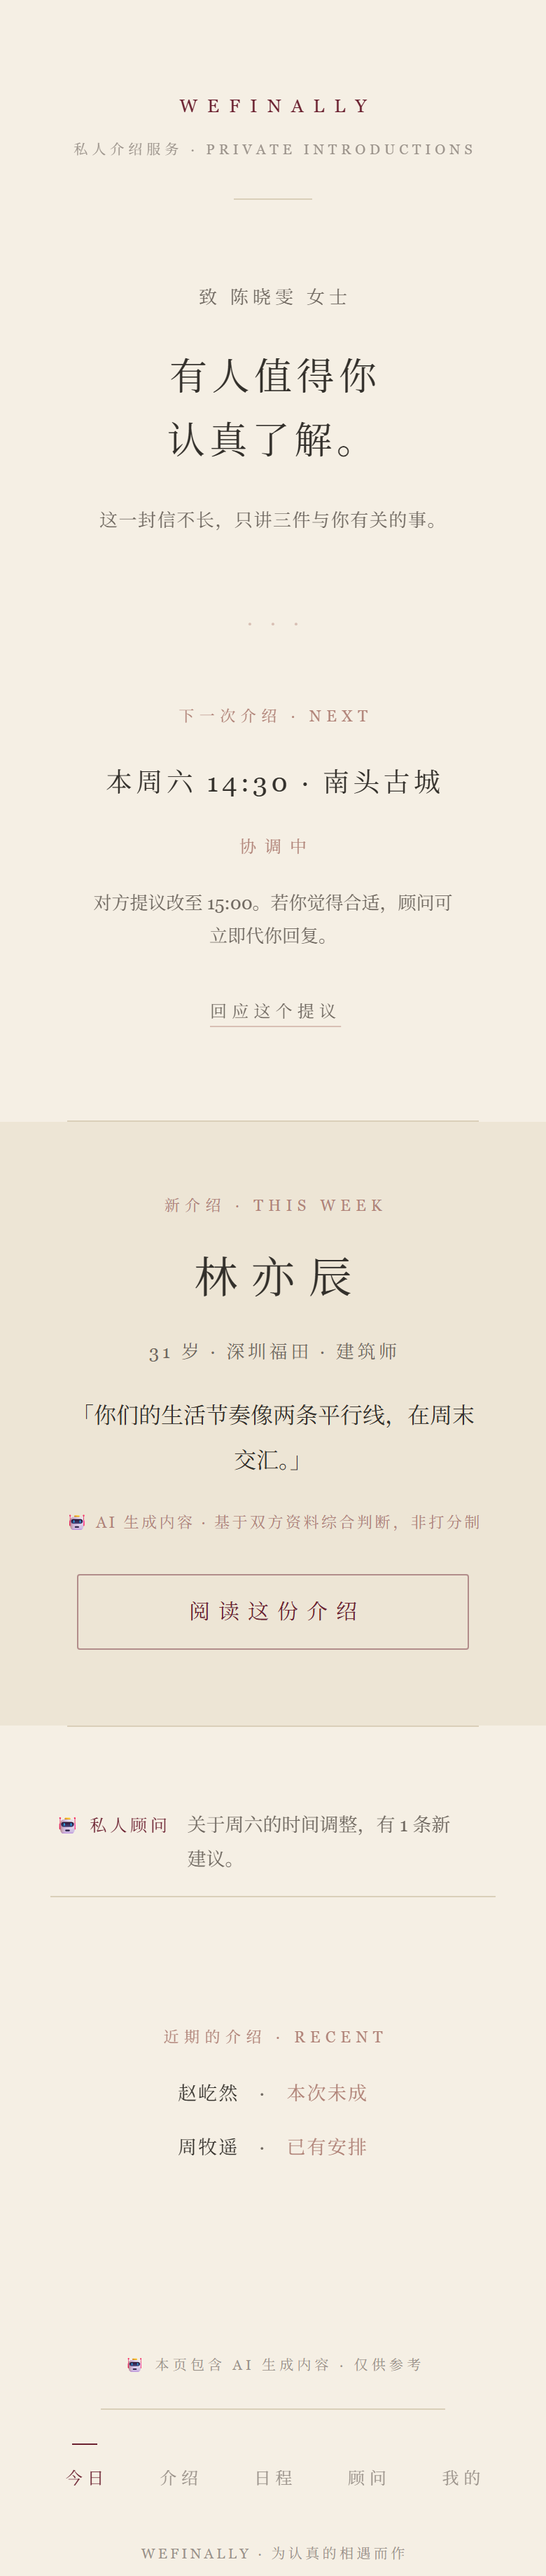
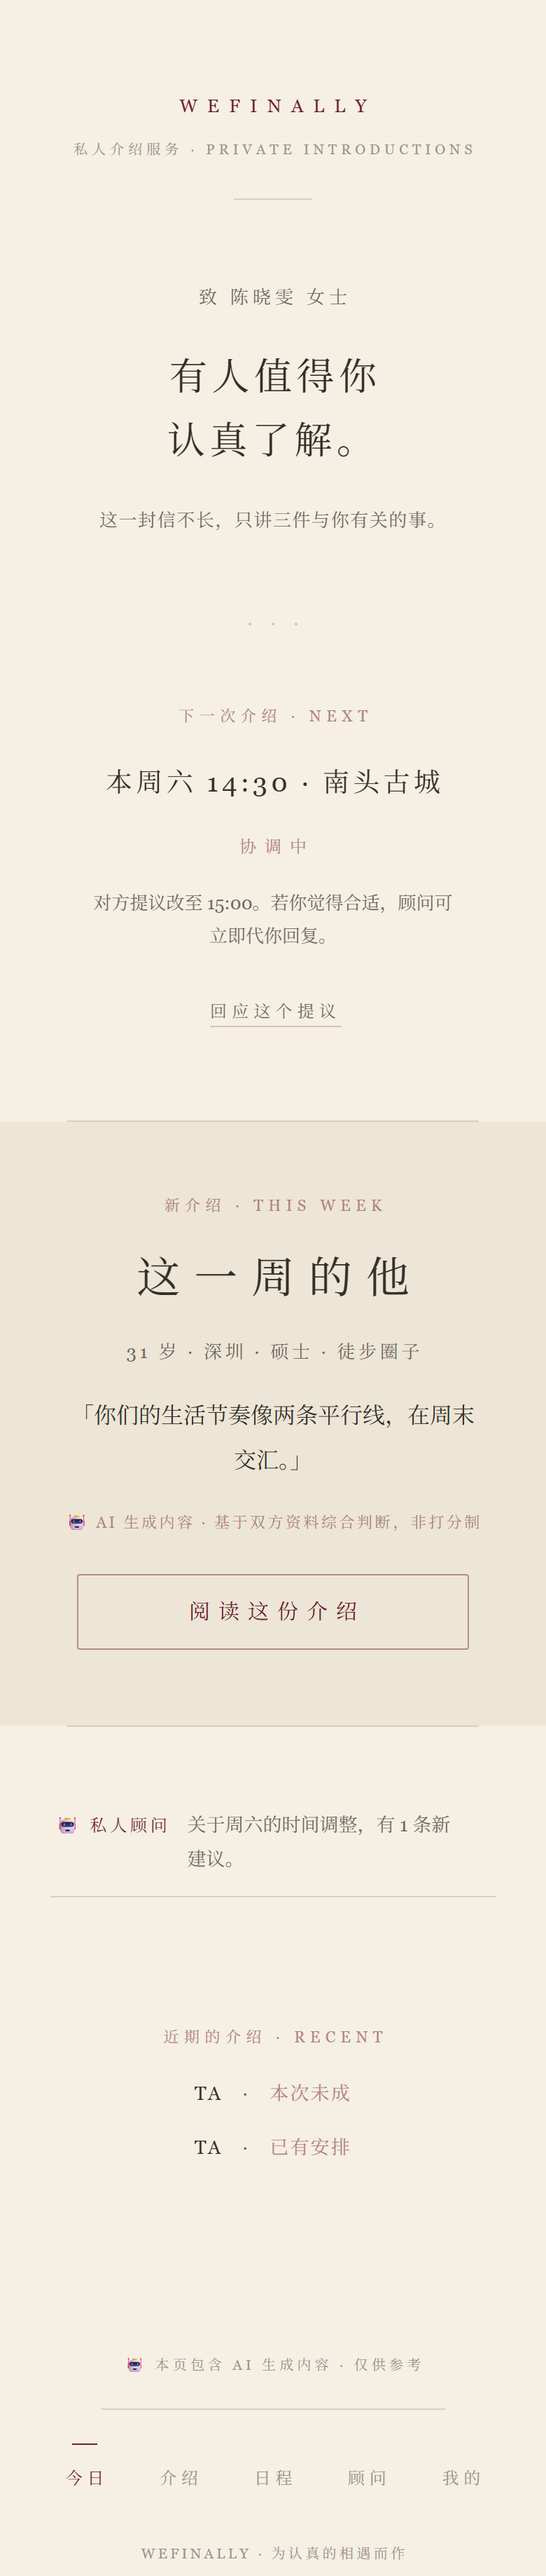
fix(ui-research): anonymize all 27 prototypes per product privacy rule (no partner names/photos/jobs shown)

diff --git a/designs/ui-research-2026/home-e-soft-brutalism.html b/designs/ui-research-2026/home-e-soft-brutalism.html
@@ -110,7 +110,7 @@ a{color:inherit}
 .mono-lg{width:78px;height:78px;font-size:38px}
 .nm{font-size:33px;font-weight:900;line-height:1.1;letter-spacing:.02em}
 .nm-en{font-size:10.5px;letter-spacing:.3em;font-weight:800;margin-top:3px}
-.meta{font-size:13px;font-weight:700;margin-top:7px;display:flex;align-items:center;gap:7px}
+.meta{font-size:13px;font-weight:700;margin-top:7px;display:flex;align-items:center;gap:7px;row-gap:4px;flex-wrap:wrap}
 .meta .sq{width:6px;height:6px;background:var(--ink)}
 .tags{display:flex;align-items:center;gap:6px;flex-wrap:wrap;font-size:11.5px;font-weight:800}
 .tags .t{border:1.5px solid var(--ink);padding:2px 8px;letter-spacing:.06em}
@@ -227,11 +227,11 @@ a{color:inherit}
       <span class="new-arrows" aria-hidden="true">▸▸</span>
     </div>
     <div class="idrow">
-      <div class="mono mono-lg" aria-hidden="true">林</div>
+      <div class="mono mono-lg" aria-hidden="true">TA</div>
       <div>
-        <div class="nm">林亦辰</div>
-        <div class="nm-en en">LIN YICHEN</div>
-        <div class="meta">31 岁 <i class="sq" aria-hidden="true"></i> 建筑师 <i class="sq" aria-hidden="true"></i> 深圳 · 福田</div>
+        <div class="nm">TA · NO.08</div>
+        <div class="nm-en en">NEW MATCH · TA</div>
+        <div class="meta">31 岁 <i class="sq" aria-hidden="true"></i> 深圳 <i class="sq" aria-hidden="true"></i> 175–180cm <i class="sq" aria-hidden="true"></i> 硕士 <i class="sq" aria-hidden="true"></i> 徒步圈子</div>
       </div>
     </div>
     <div class="tags">共同点 →<span class="t">徒步 · EBC</span><span class="t">胶片相机</span><span class="t">周末日料</span></div>
@@ -279,23 +279,23 @@ a{color:inherit}
   <section class="recent">
     <article class="rb">
       <div class="r-top">
-        <span class="mono mono-sm" aria-hidden="true">赵</span>
+        <span class="mono mono-sm" aria-hidden="true">46</span>
         <span class="stag stag-sm st-done">本次未成</span>
       </div>
       <div>
-        <div class="r-nm">赵屹然</div>
-        <div class="r-en en">ZHAO YIRAN</div>
+        <div class="r-nm">TA · 第 046 期</div>
+        <div class="r-en en">PAST · NO.046</div>
       </div>
       <div class="r-sub">此前介绍 · 已结束，不再占用你的列表</div>
     </article>
     <article class="rb ok">
       <div class="r-top">
-        <span class="mono mono-sm" aria-hidden="true">周</span>
+        <span class="mono mono-sm" aria-hidden="true">44</span>
         <span class="stag stag-sm st-ok">已有安排</span>
       </div>
       <div>
-        <div class="r-nm">周牧遥</div>
-        <div class="r-en en">ZHOU MUYAO</div>
+        <div class="r-nm">TA · 第 044 期</div>
+        <div class="r-en en">PAST · NO.044</div>
       </div>
       <div class="r-sub">此前介绍 · 见面安排推进中</div>
     </article>

diff --git a/designs/ui-research-2026/home-c-date-pass.html b/designs/ui-research-2026/home-c-date-pass.html
@@ -326,10 +326,10 @@ a:focus-visible{outline:2px solid var(--red);outline-offset:2px;}
             </figure>
             <span class="xmark">◆</span>
             <figure class="fig">
-              <span class="win guest"><i class="c1"></i><i class="c2"></i>周</span>
+              <span class="win guest"><i class="c1"></i><i class="c2"></i>TA</span>
               <figcaption>GUEST 受邀人</figcaption>
             </figure>
-            <span class="whonote">陈晓雯 × 周牧遥<br>双方均已同意介绍</span>
+            <span class="whonote">陈晓雯 × TA<br>双方均已同意介绍</span>
           </div>
 
           <div class="times">
@@ -393,10 +393,10 @@ a:focus-visible{outline:2px solid var(--red);outline-offset:2px;}
     <section class="claim" aria-label="新 Date Pass 待领取">
       <span class="claim-flag">NEW PASS</span>
       <div class="claim-row">
-        <span class="win mini"><i class="c1"></i><i class="c2"></i>林</span>
+        <span class="win mini"><i class="c1"></i><i class="c2"></i>TA</span>
         <div>
-          <div class="cname">林亦辰<span class="tag">新匹配</span></div>
-          <div class="cmeta">31 · 建筑师 · 深圳福田</div>
+          <div class="cname">TA · PASS WF-C08<span class="tag">新匹配</span></div>
+          <div class="cmeta">31 岁 · 深圳 · 175–180cm<br>硕士 · 徒步圈子</div>
         </div>
         <span class="cteaser">IN COMMON ×3<br>领取后查看</span>
       </div>
@@ -423,7 +423,7 @@ a:focus-visible{outline:2px solid var(--red);outline-offset:2px;}
       <div class="stub">
         <span class="s-no">NO.<br>WF-A11</span>
         <div>
-          <div class="s-name">赵屹然</div>
+          <div class="s-name">TA</div>
           <span class="s-sub">上次介绍未达成 · 已由协调员归档</span>
         </div>
         <span class="stamp sm grey">本次未成</span>
@@ -431,7 +431,7 @@ a:focus-visible{outline:2px solid var(--red);outline-offset:2px;}
       <div class="stub">
         <span class="s-no">NO.<br>WF-B04</span>
         <div>
-          <div class="s-name">周牧遥</div>
+          <div class="s-name">TA</div>
           <span class="s-sub">即上方票面之安排 · 进行中</span>
         </div>
         <span class="stamp sm green">已有安排</span>

diff --git a/designs/ui-research-2026/coord-e-soft-brutalism.html b/designs/ui-research-2026/coord-e-soft-brutalism.html
@@ -196,7 +196,7 @@ a{color:inherit}
       <div class="f-kick"><i class="f-lamp" aria-hidden="true"></i><span class="en">SYSTEM STATUS — 本周六介绍 · 时间敲定中</span></div>
       <h1 class="f-h en">COORD-<br>INATING<span class="rd">.</span><span class="cursor" aria-hidden="true"></span></h1>
       <div class="f-cn">协调中</div>
-      <p class="f-sub">林亦辰提议把周六介绍从 14:30 改到 15:00。你的空闲到 17:00，改后仍在范围内 —— 确认或另提时间都行，定了就由霞姐团队去敲定。</p>
+      <p class="f-sub">对方提议把周六介绍从 14:30 改到 15:00。你的空闲到 17:00，改后仍在范围内 —— 确认或另提时间都行，定了就由霞姐团队去敲定。</p>
     </section>
     <div class="hazard" aria-hidden="true"></div>
   </div>
@@ -234,8 +234,8 @@ a{color:inherit}
         </div>
       </div>
       <div class="tl-row">
-        <span class="tl-name">他 LIN</span>
-        <div class="tl-track" aria-label="林亦辰空闲 14:00 至 18:00">
+        <span class="tl-name">他 TA</span>
+        <div class="tl-track" aria-label="对方空闲 14:00 至 18:00">
           <i></i><i></i><i class="f-y"></i><i class="f-y"></i><i class="f-y"></i><i class="f-y"></i><i class="f-y"></i><i class="f-y"></i><i class="f-y"></i><i class="f-y"></i>
         </div>
       </div>
@@ -293,11 +293,11 @@ a{color:inherit}
     </article>
     <article class="wb him">
       <div class="w-top">
-        <span class="mono-sm" aria-hidden="true">林</span>
-        <span class="w-en en">LIN YICHEN · 对方</span>
+        <span class="mono-sm" aria-hidden="true">TA</span>
+        <span class="w-en en">OBJECT NO.08 · 对方</span>
       </div>
       <div>
-        <div class="w-nm">林亦辰</div>
+        <div class="w-nm">TA · NO.08</div>
         <div class="w-st"><span class="mk mk-no" aria-hidden="true">…</span>待回应 WAITING</div>
       </div>
       <div class="w-sub">等你回应后一起敲定</div>

diff --git a/designs/ui-research-2026/home-f-ai-future.html b/designs/ui-research-2026/home-f-ai-future.html
@@ -331,17 +331,17 @@ p{text-wrap:pretty;}
     <div class="converge-copy">
       <p class="micro">Current Convergence · 正在收敛</p>
       <h1 class="h-thin">两条生活轨迹，正在靠近。</h1>
-      <p class="sub">你与林亦辰的空闲时间，在这个周末出现了交叠。先看这段信号为什么值得回应。</p>
+      <p class="sub">你与对方的空闲时间，在这个周末出现了交叠。先看这段信号为什么值得回应。</p>
     </div>
   </section>
 
   <!-- current signal card -->
   <section class="panel signal" aria-label="当前信号">
     <div class="signal-head">
-      <div class="mono-l" aria-hidden="true">林</div>
+      <div class="mono-l" aria-hidden="true">◉</div>
       <div class="signal-name">
-        <b>林亦辰</b>
-        <span>31 岁 · 深圳福田 · 建筑师</span>
+        <b>TA · SIG-0847</b>
+        <span>31 岁 · 深圳 · 175–180cm · 硕士 · 徒步圈子</span>
       </div>
       <span class="chip"><span class="pair tight" aria-hidden="true"><i></i><i></i></span>新匹配</span>
     </div>
@@ -411,7 +411,7 @@ p{text-wrap:pretty;}
         <span class="ddot a"></span><span class="ddot z-out"></span>
       </span>
       <span>
-        <span class="past-name">赵屹然</span>
+        <span class="past-name">早期信号 · SIG-0462</span>
         <p class="past-note">上周推荐 · 已发散</p>
       </span>
       <span class="past-status">本次未成</span>
@@ -419,7 +419,7 @@ p{text-wrap:pretty;}
     <div class="past-row">
       <span class="diag" aria-hidden="true"><span class="settled"></span></span>
       <span>
-        <span class="past-name">周牧遥</span>
+        <span class="past-name">早期信号 · SIG-0438</span>
         <p class="past-note">上月推荐 · 已同步</p>
       </span>
       <span class="past-status">已有安排</span>

diff --git a/designs/ui-research-2026/assistant-c-date-pass.html b/designs/ui-research-2026/assistant-c-date-pass.html
@@ -218,7 +218,7 @@ a:focus-visible{outline:2px solid var(--red);outline-offset:2px;}
         <h2 class="ct-title">关于周六 15:00 的时间调整</h2>
         <p class="ct-meta">PASS WF-C08 · 本周六 · 南头古城</p>
         <div class="ct-rule" role="presentation"></div>
-        <p class="ct-reason">林亦辰周六上午另有安排，提议从 14:30 改到 <b>15:00</b>。新时间仍落在你们<b>共同空闲 14:00–17:00</b> 之内，前后各留约一小时余量，赶路与迟到风险都更低。</p>
+        <p class="ct-reason">对方周六上午另有安排，提议从 14:30 改到 <b>15:00</b>。新时间仍落在你们<b>共同空闲 14:00–17:00</b> 之内，前后各留约一小时余量，赶路与迟到风险都更低。</p>
         <p class="ct-ai">🤖 AI 生成内容，仅供参考 · 可随时转人工协调员复核。</p>
         <div class="ct-acts">
           <a class="abtn adopt" href="#adopt-1500">采纳，去确认</a>
@@ -235,15 +235,15 @@ a:focus-visible{outline:2px solid var(--red);outline-offset:2px;}
         <span class="lno">NO.<br>02</span>
         <div class="lt">
           <b>上次介绍的时间协调</b>
-          <span>周牧遥 · WF-B04 · 已敲定周六下午安排</span>
+          <span>TA · WF-B04 · 已敲定周六下午安排</span>
         </div>
         <span class="stamp">已完成</span>
       </div>
       <div class="log">
         <span class="lno">NO.<br>03</span>
         <div class="lt">
-          <b>赵屹然介绍的后续善后</b>
-          <span>WF-A11 · 双方反馈已归档，不影响后续介绍</span>
+          <b>上次介绍的后续善后</b>
+          <span>NO. WF-A11 · 双方反馈已归档，不影响后续介绍</span>
         </div>
         <span class="stamp grey">已归档</span>
       </div>

diff --git a/designs/ui-research-2026/detail-e-soft-brutalism.html b/designs/ui-research-2026/detail-e-soft-brutalism.html
@@ -161,19 +161,19 @@ a{color:inherit}
   <div class="kick"><b class="k-no">01</b><span class="k-en en">PROFILE</span><span class="k-cn">介绍对象</span><i class="k-rule"></i></div>
   <section style="display:grid;gap:10px">
     <div class="person">
-      <div class="mono-hero" aria-hidden="true">林</div>
+      <div class="mono-hero" aria-hidden="true">TA</div>
       <div class="p-main">
         <div class="p-chips"><span class="chip chip-ink">新匹配</span><span class="chip en">NEW MATCH</span></div>
-        <div class="p-name">林亦辰</div>
-        <div class="p-en en">LIN YICHEN</div>
+        <div class="p-name">TA · NO.08</div>
+        <div class="p-en en">MATCH OBJECT · TA</div>
         <div class="p-line">官方介绍 <i class="sq" aria-hidden="true"></i> 协调线下奔现</div>
       </div>
     </div>
     <div class="facts">
-      <div class="fact"><span class="f-l en">NAME · 姓名</span><span class="f-v">林亦辰</span></div>
+      <div class="fact"><span class="f-l en">OBJECT · 对象编号</span><span class="f-v">NO.08</span></div>
       <div class="fact"><span class="f-l en">AGE · 年龄</span><span class="f-v">31 岁</span></div>
-      <div class="fact"><span class="f-l en">CITY · 城市</span><span class="f-v">深圳 · 福田</span></div>
-      <div class="fact mode"><span class="f-l en">JOB · 职业</span><span class="f-v">建筑师</span></div>
+      <div class="fact"><span class="f-l en">CITY · 城市</span><span class="f-v">深圳</span></div>
+      <div class="fact"><span class="f-l en">EDU · 学历</span><span class="f-v">硕士</span></div>
     </div>
   </section>
 

diff --git a/designs/ui-research-2026/reveal-e-soft-brutalism.html b/designs/ui-research-2026/reveal-e-soft-brutalism.html
@@ -175,19 +175,19 @@ a{color:inherit}
   <div class="kick"><b class="k-no">01</b><span class="k-en en">PROFILE</span><span class="k-cn">介绍对象</span><i class="k-rule"></i></div>
   <section style="display:grid;gap:10px">
     <div class="person">
-      <div class="mono-hero" aria-hidden="true">林</div>
+      <div class="mono-hero" aria-hidden="true">TA</div>
       <div class="p-main">
         <div class="p-chips"><span class="chip chip-ink">新匹配</span><span class="chip en">NEW MATCH</span></div>
-        <div class="p-name">林亦辰</div>
-        <div class="p-en en">LIN YICHEN</div>
+        <div class="p-name">TA · NO.08</div>
+        <div class="p-en en">MATCH OBJECT · TA</div>
         <div class="p-line">官方介绍 <i class="sq" aria-hidden="true"></i> 协调线下奔现</div>
       </div>
     </div>
     <div class="facts">
-      <div class="fact"><span class="f-l en">NAME · 姓名</span><span class="f-v">林亦辰</span></div>
+      <div class="fact"><span class="f-l en">OBJECT · 对象编号</span><span class="f-v">NO.08</span></div>
       <div class="fact"><span class="f-l en">AGE · 年龄</span><span class="f-v">31 岁</span></div>
-      <div class="fact"><span class="f-l en">CITY · 城市</span><span class="f-v">深圳 · 福田</span></div>
-      <div class="fact mode"><span class="f-l en">JOB · 职业</span><span class="f-v">建筑师</span></div>
+      <div class="fact"><span class="f-l en">CITY · 城市</span><span class="f-v">深圳</span></div>
+      <div class="fact"><span class="f-l en">EDU · 学历</span><span class="f-v">硕士</span></div>
     </div>
   </section>
 

diff --git a/designs/ui-research-2026/report-e-soft-brutalism.html b/designs/ui-research-2026/report-e-soft-brutalism.html
@@ -170,7 +170,7 @@ a{color:inherit}
   <!-- 报告封面：MATCH REPORT · 匹配报告 NO.08 -->
   <div class="flash-wrap">
     <section class="flash">
-      <div class="f-kick"><i class="f-lamp" aria-hidden="true"></i><span class="en">SYSTEM DOCUMENT — 官方档案 · 陈晓雯×林亦辰</span></div>
+      <div class="f-kick"><i class="f-lamp" aria-hidden="true"></i><span class="en">SYSTEM DOCUMENT — 官方档案 · 你 × TA</span></div>
       <div class="f-top">
         <h1 class="f-h en">MATCH<br>REPORT<span class="rd">.</span><span class="cursor" aria-hidden="true"></span></h1>
         <div class="no-blk"><span class="no-b">NO.08</span><span class="no-s en">匹配报告</span></div>
@@ -184,7 +184,7 @@ a{color:inherit}
   <div class="kick"><b class="k-no">01</b><span class="k-en en">WHY</span><span class="k-cn">为什么匹配</span><i class="k-rule"></i></div>
   <blockquote class="big-q">
     <p class="bq-t">你们的生活节奏像两条<mark>平行线</mark>，在周末<mark>交汇</mark>。</p>
-    <p class="bq-d">工作日各自专注 —— 他画图、你做产品；周末共同外出，徒步、胶片、日料三件事都咬得上。<b>差异是节奏差，不是方向差</b>：他宅家充电，你市集漫游，互不打扰又正好互补。</p>
+    <p class="bq-d">工作日各自专注 —— 你做产品、他忙他的；周末共同外出，徒步、胶片、日料三件事都咬得上。<b>差异是节奏差，不是方向差</b>：他宅家充电，你市集漫游，互不打扰又正好互补。</p>
     <span class="q-f">🤖 AI 匹配引擎 · 报告 NO.08</span>
   </blockquote>
 

diff --git a/designs/ui-research-2026/home-a-editorial.html b/designs/ui-research-2026/home-a-editorial.html
@@ -261,13 +261,13 @@
   <article class="cover-story">
     <div class="cs-body">
       <p class="sec-no"><b>01</b>封面故事 · COVER STORY</p>
-      <h2>林亦辰</h2>
-      <p class="cs-meta">31 岁 <span>/</span> 深圳福田 <span>/</span> 建筑师</p>
+      <h2>TA</h2>
+      <p class="cs-meta">31 岁 <span>/</span> 深圳 <span>/</span> 徒步圈子</p>
       <p class="cs-dek">徒步走过同一段山路，各自挂一台胶片机，周末都愿意为一场市集或一顿日料出门——本周，我们把他印在了封面上。</p>
       <a class="cta-primary" href="#">阅读为什么值得认识<span class="arr">→</span></a>
     </div>
     <figure class="swatch-wrap crop">
-      <div class="swatch"><span>林</span></div>
+      <div class="swatch"><span>TA</span></div>
       <figcaption class="swatch-cap">NO.047</figcaption>
     </figure>
   </article>
@@ -316,13 +316,13 @@
       <h3>最近两期回顾</h3>
       <div class="arc-row">
         <span class="arc-issue">NO.046</span>
-        <span class="arc-name">赵屹然</span>
+        <span class="arc-name">TA</span>
         <span class="arc-leader"></span>
         <span class="arc-state done">本次未成</span>
       </div>
       <div class="arc-row">
         <span class="arc-issue">NO.044</span>
-        <span class="arc-name">周牧遥</span>
+        <span class="arc-name">TA</span>
         <span class="arc-leader"></span>
         <span class="arc-state">已有安排</span>
       </div>

diff --git a/designs/ui-research-2026/coord-c-date-pass.html b/designs/ui-research-2026/coord-c-date-pass.html
@@ -225,7 +225,7 @@ a:focus-visible{outline:2px solid var(--red);outline-offset:2px;}
       <b>协调中</b>
       <span class="en">· COORDINATING</span>
       <span class="flag">PASS WF-C08</span>
-      <span class="sub">林亦辰提议把周六见面从 14:30 改到 15:00——他周六上午另有安排。等你确认后，时间即最终生效。</span>
+      <span class="sub">对方提议把周六见面从 14:30 改到 15:00——他周六上午另有安排。等你确认后，时间即最终生效。</span>
     </section>
 
     <!-- ===== 时间提案 A / B ===== -->
@@ -251,7 +251,7 @@ a:focus-visible{outline:2px solid var(--red);outline-offset:2px;}
           <div class="ph"><b>B</b><span>对方提议 PROP.</span></div>
           <div class="pt">15:00</div>
           <div class="pdow">周六 SAT · PM</div>
-          <div class="pfoot">林亦辰提出 · 待你确认后生效。</div>
+          <div class="pfoot">对方提出 · 待你确认后生效。</div>
         </div>
       </article>
     </div>
@@ -311,7 +311,7 @@ a:focus-visible{outline:2px solid var(--red);outline-offset:2px;}
       </div>
       <div class="conf wait">
         <span class="ck">◇</span>
-        <span class="ct">他 · 林亦辰</span>
+        <span class="ct">TA（他）</span>
         <span class="cs">等待你确认 15:00</span>
         <span class="stamp grey">待回应</span>
       </div>

diff --git a/designs/ui-research-2026/home-b-match-file.html b/designs/ui-research-2026/home-b-match-file.html
@@ -339,8 +339,8 @@ em,i,b{font-style:normal}
             <span class="photo-cap">证件照 · 未交换</span>
           </span>
           <div class="idc-main">
-            <p class="idc-name">林亦辰<span>LIN YICHEN</span></p>
-            <p class="idc-meta">31 岁 · 深圳福田 · 建筑师</p>
+            <p class="idc-name">TA<span>FILE #025</span></p>
+            <p class="idc-meta">31 岁 · 深圳 · 硕士 · 徒步圈子</p>
             <p class="idc-file">RESERVED → FILE #025</p>
           </div>
         </div>
@@ -374,7 +374,7 @@ em,i,b{font-style:normal}
         <li>
           <a href="#f023">
             <span class="l-no">#023</span>
-            <span class="l-name">周牧遥<small>ZHOU MUYAO</small></span>
+            <span class="l-name">TA<small>档案对象</small></span>
             <span class="chip plan">已有安排</span>
             <span class="l-go" aria-hidden="true">›</span>
           </a>
@@ -382,7 +382,7 @@ em,i,b{font-style:normal}
         <li class="closed-row">
           <a href="#f022">
             <span class="l-no">#022</span>
-            <span class="l-name">赵屹然<small>ZHAO YIRAN</small></span>
+            <span class="l-name">TA<small>档案对象</small></span>
             <span class="chip closed">本次未成</span>
             <span class="l-go" aria-hidden="true">›</span>
           </a>

diff --git a/designs/ui-research-2026/detail-c-date-pass.html b/designs/ui-research-2026/detail-c-date-pass.html
@@ -223,7 +223,7 @@ a:focus-visible{outline:2px solid var(--red);outline-offset:2px;}
     <div class="slab"><span class="en">MATCH DETAIL</span><span class="cn">匹配详情</span></div>
 
     <!-- ===== 状态票根：已出票 ===== -->
-    <article class="pass" aria-label="林亦辰的 Date Pass 详情">
+    <article class="pass" aria-label="受邀人 TA 的 Date Pass 详情">
       <div class="band">
         <span class="bt">DATE&nbsp;PASS</span>
         <span class="bs">介绍函 · 已出票</span>
@@ -234,11 +234,11 @@ a:focus-visible{outline:2px solid var(--red);outline-offset:2px;}
         <!-- 主联 -->
         <div class="pmain">
           <div class="idrow">
-            <span class="win"><i class="c1"></i><i class="c2"></i>林</span>
+            <span class="win"><i class="c1"></i><i class="c2"></i>TA</span>
             <div class="idt">
-              <div class="nm">林亦辰<span class="tag">新匹配</span></div>
-              <div class="mt">AGE 31 · ARCHITECT<br>深圳 · 福田</div>
-              <div class="vf">身份与职业已经协调员核实</div>
+              <div class="nm">受邀人 TA<span class="tag">新匹配</span></div>
+              <div class="mt">31 岁 · 深圳<br>175–180cm · 硕士<br>徒步圈子</div>
+              <div class="vf">身份已经协调员核实</div>
             </div>
           </div>
 
